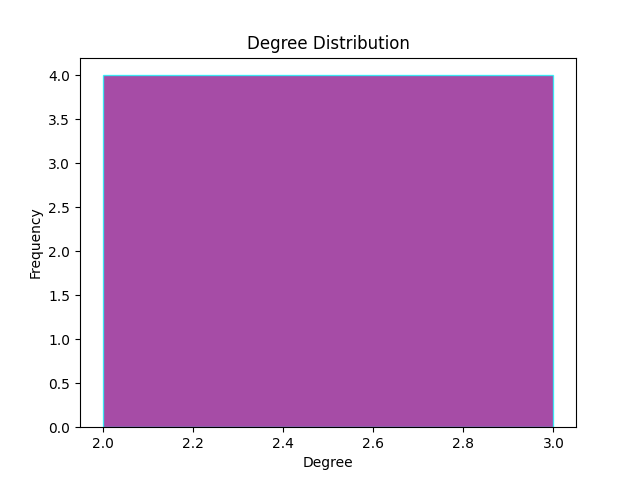
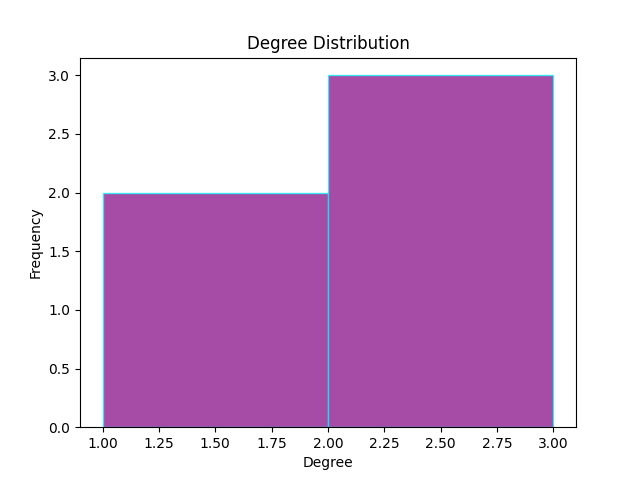
receba

diff --git a/main.py b/main.py
@@ -145,8 +145,15 @@ def test_print():
     graph.add_edge('A', 'C', 4)
     graph.add_edge('B', 'C', 6)
 
-    print('GRAPH', graph)
-    print('GRAPH LIST', graph_list)
+    graph_list.add_vertice('A')
+    graph_list.add_vertice('B')
+    graph_list.add_vertice('C')
+    graph_list.add_edge('A', 'B', 2)
+    graph_list.add_edge('A', 'C', 4)
+    graph_list.add_edge('B', 'C', 6)
+
+    print('MATRIX GRAPH', graph)
+    print('\nLIST GRAPH', graph_list)
 
 def test_persistency():
     print(f'\n =========== Test for persistency =========== \n')
@@ -160,6 +167,8 @@ def test_persistency():
     graph.add_edge('B', 'C', 6)
 
     parser.save(graph)
+
+    print("Check data folder!")
 
 def test_transitive_closure():
     print(f'\n =========== Test for transitive closure =========== \n')
@@ -181,32 +190,90 @@ def test_search_algorithms():
 
     graph = Graph(False, True, 'MATRIZ')
 
+    graph.add_vertice('A')
+    graph.add_vertice('A')
+    graph.add_vertice('B')
+    graph.add_vertice('C')
+    graph.add_vertice('D')
+    graph.add_vertice('E')
+    graph.add_edge('A', 'B', 2)
+    graph.add_edge('A', 'C', 4)
+    graph.add_edge('B', 'C', 6)
+    graph.add_edge('D', 'C', 1)
+    graph.add_edge('D', 'E', 2)
+    graph.add_edge('C', 'E', 3)
+
+    print("Depth-first search from A -> E:\n")
+    path, time = graph.depth_search('A', 'E')
+    print(f"Shortest path between A and E: {path}. found in time: {time}\n\n")
+
+    print("Width-first search from A -> E:\n")
+    path, time = graph.width_search('A', 'E')
+    print(f"Shortest path between A and E: {path}. found in time: {time}\n\n")
+
+    print("Dijkstra's algorithm:\n")
+    path, cost, time = graph.dijkstra('A', 'E')
+    print(f"Shortest path between A and E: {path} with cost: {cost}. found in time: {time}")
+
 
 def test_eulerian():
     print(f'\n =========== Test for eulerian =========== \n')
 
-    pass
+    graph = Graph(True, True, 'MATRIZ')
+
+    graph.add_vertice('A')
+    graph.add_vertice('A')
+    graph.add_vertice('B')
+    graph.add_vertice('C')
+    graph.add_vertice('D')
+    graph.add_vertice('E')
+    graph.add_edge('A', 'B', 2)
+    graph.add_edge('A', 'C', 4)
+    graph.add_edge('B', 'C', 6)
+    graph.add_edge('D', 'C', 1)
+    graph.add_edge('D', 'E', 2)
+    graph.add_edge('C', 'E', 3)
+
+    print(graph)
+    print("\nIs eulerian: ", graph.eulerian())
 
 def test_prim():
     print(f'\n =========== Test for prim =========== \n')
 
-    pass
+    graph = Graph(False, True, 'LISTA')
+
+    graph.add_vertice('A')
+    graph.add_vertice('A')
+    graph.add_vertice('B')
+    graph.add_vertice('C')
+    graph.add_vertice('D')
+    graph.add_vertice('E')
+    graph.add_edge('A', 'B', 2)
+    graph.add_edge('B', 'C', 4)
+    graph.add_edge('C', 'D', 6)
+    graph.add_edge('D', 'E', 7)
+    graph.add_edge('E', 'A', 2)
+    graph.add_edge('C', 'E', 3)
+
+    prim_graph, cost = graph.prim()
+    print(f'MST: {prim_graph}\n cost = {cost}')
 
 def test_degree_distribution_histogram():
     print(f'\n =========== Test for degree distribution histogram =========== \n')
 
-    graph = Graph(False, True, 'MATRIZ')
+    graph = Graph(True, True, 'MATRIZ')
 
     graph.add_vertice('A')
     graph.add_vertice('B')
     graph.add_vertice('C')
     graph.add_vertice('D')
+    graph.add_vertice('E')
 
     graph.add_edge('A', 'B')
     graph.add_edge('A', 'C')
     graph.add_edge('A', 'D')
     graph.add_edge('B', 'C')
-    graph.add_edge('B', 'D')
+    graph.add_edge('B', 'E')
 
     graph.degree_distribution_histogram()
 

diff --git a/lib/Graph.py b/lib/Graph.py
@@ -259,6 +259,8 @@ class Graph:
                     cost += weights[start_vertice]
 
             return Prim_Graph, cost
+        else: 
+            return "Graph is not connected"
 
     def eulerian(self):
         vertices_list: list = [list(x.values())[0] for x in self.vertices]
